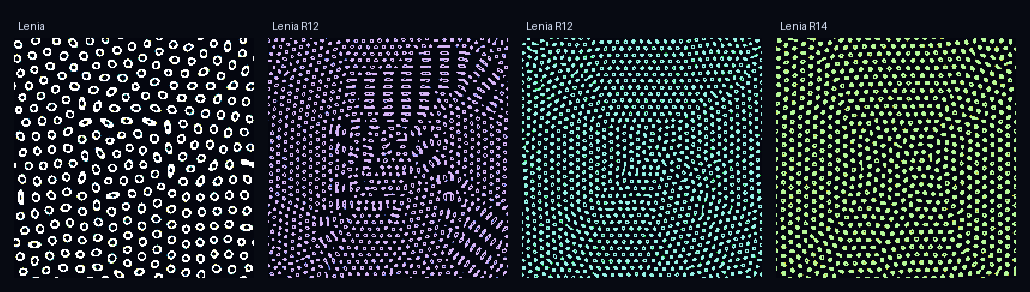
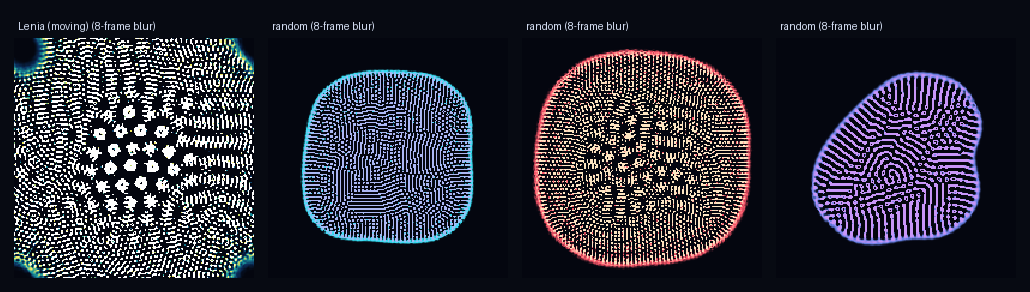
Fix Lenia freezing into static spots: curate for sustained motion
Lenia from a random soup naturally settles into static circular Turing-spot patterns, and the old curation scored only spatial structure, so it actively selected those frozen spots. Now _lenia_score settles past the transient (90 steps) and rewards ongoing frame-to-frame MOTION as well as structure, so curated rolls sustain movement (~8/10 now move vs ~0 before). Also biases random kernels toward multi-ring (more dynamic) and swaps the named 'Lenia' to a moving multi-ring set (R12/mu.265/sigma.048, motion 0.0135 vs the old 0.0007 frozen default).

diff --git a/reality_sim/lawsets.py b/reality_sim/lawsets.py
@@ -212,7 +212,9 @@ register(LawSet(
     ),
     family="lenia",
     states=256,
-    params={"R": 13, "mu": 0.15, "sigma": 0.03, "dt": 0.1, "beta": [1.0]},
+    # A *moving* multi-ring set (found by search) rather than the classic single-ring
+    # params, which freeze into static spots from a random soup.
+    params={"R": 12, "mu": 0.265, "sigma": 0.048, "dt": 0.1, "beta": [1.0, 0.58, 0.9]},
     palette=gradient_palette(_LENIA_STOPS),
     seed={"kind": "random", "density": 0.6},
     controls=lenia_controls(),
@@ -308,11 +310,11 @@ def _random_gradient(rng: np.random.Generator, n: int = 256) -> list[str]:
 def random_lenia_lawset(rng: np.random.Generator) -> LawSet:
     """A random *continuous* universe (Lenia): random kernel rings + growth params."""
     R = int(rng.integers(10, 17))
-    nb = int(rng.integers(1, 4))                    # 1..3 concentric rings
+    nb = int(rng.choice([1, 2, 2, 3, 3]))           # bias to multi-ring (more dynamic)
     beta = [round(float(rng.uniform(0.3, 1.0)), 2) for _ in range(nb)]
     beta[0] = 1.0
-    mu = round(float(rng.uniform(0.12, 0.30)), 3)
-    sigma = round(float(rng.uniform(0.02, 0.05)), 3)
+    mu = round(float(rng.uniform(0.15, 0.30)), 3)   # the lively-but-not-dead band
+    sigma = round(float(rng.uniform(0.03, 0.05)), 3)
     tag = int(rng.integers(1000, 10000))
     return LawSet(
         id=f"rnd-{tag}",
@@ -328,16 +330,28 @@ def random_lenia_lawset(rng: np.random.Generator) -> LawSet:
 
 
 def _lenia_score(lawset: LawSet) -> float:
-    """Curation score for a continuous type: alive (mass in a sane band) and
-    structured (high spatial std → localized creatures, not uniform gray)."""
+    """Curation score for a continuous type: alive (mass in a sane band), spatially
+    **structured** (high std → localized shapes, not uniform gray) AND still
+    **moving** (nonzero frame-to-frame change after the transient). The motion term
+    is the fix for "Lenia always freezes into circular spots" — those static
+    Turing-pattern attractors score high on structure but ~0 on motion, so rewarding
+    motion steers rolls toward pulsing / drifting / rotating patterns instead."""
     from .engine import make_engine
-    eng = make_engine(lawset, (48, 48), np.random.default_rng(0))
-    for _ in range(80):
+    eng = make_engine(lawset, (56, 56), np.random.default_rng(0))
+    for _ in range(90):
+        eng.step()                       # settle well past the transient so we
+    prev = eng.field.copy()              # measure *sustained* motion, not a dying flurry
+    motion = 0.0
+    for _ in range(25):
         eng.step()
+        motion += float(np.abs(eng.field - prev).mean())
+        prev = eng.field.copy()
+    motion /= 25.0
     m = float(eng.field.mean())
-    if m < 0.01 or m > 0.55:
+    if m < 0.01 or m > 0.55:             # dead or blown out
         return 0.0
-    return float(eng.field.std())
+    move = min(max((motion - 0.0006) / 0.004, 0.0), 1.0)   # frozen -> 0, moving -> 1
+    return float(eng.field.std()) * move
 
 
 def random_lenia(rng: np.random.Generator, tries: int = 5) -> LawSet:

diff --git a/README.md b/README.md
@@ -45,8 +45,10 @@ totalistic family's random tables produce genuinely new kinds of automata:*
 Types come in two flavors so far: **discrete** (totalistic transition tables) and
 **continuous** (`lenia` — real-valued cells evolved by a smooth kernel + growth
 function, quantized to 256 shades for display). Continuous types look nothing like
-the discrete ones — soft, organism-like membranes and cells. Tune growth center
-`μ` / width `σ` live to morph them.
+the discrete ones — soft, organism-like membranes and cells. The type generator
+curates for *sustained motion* (not just structure), so rolls tend to be moving,
+membraned "creatures" rather than the static spot-patterns Lenia falls into from a
+random soup by default. Tune growth center `μ` / width `σ` live to morph them.
 
 ![continuous Lenia types](docs/img/lenia.png)
 